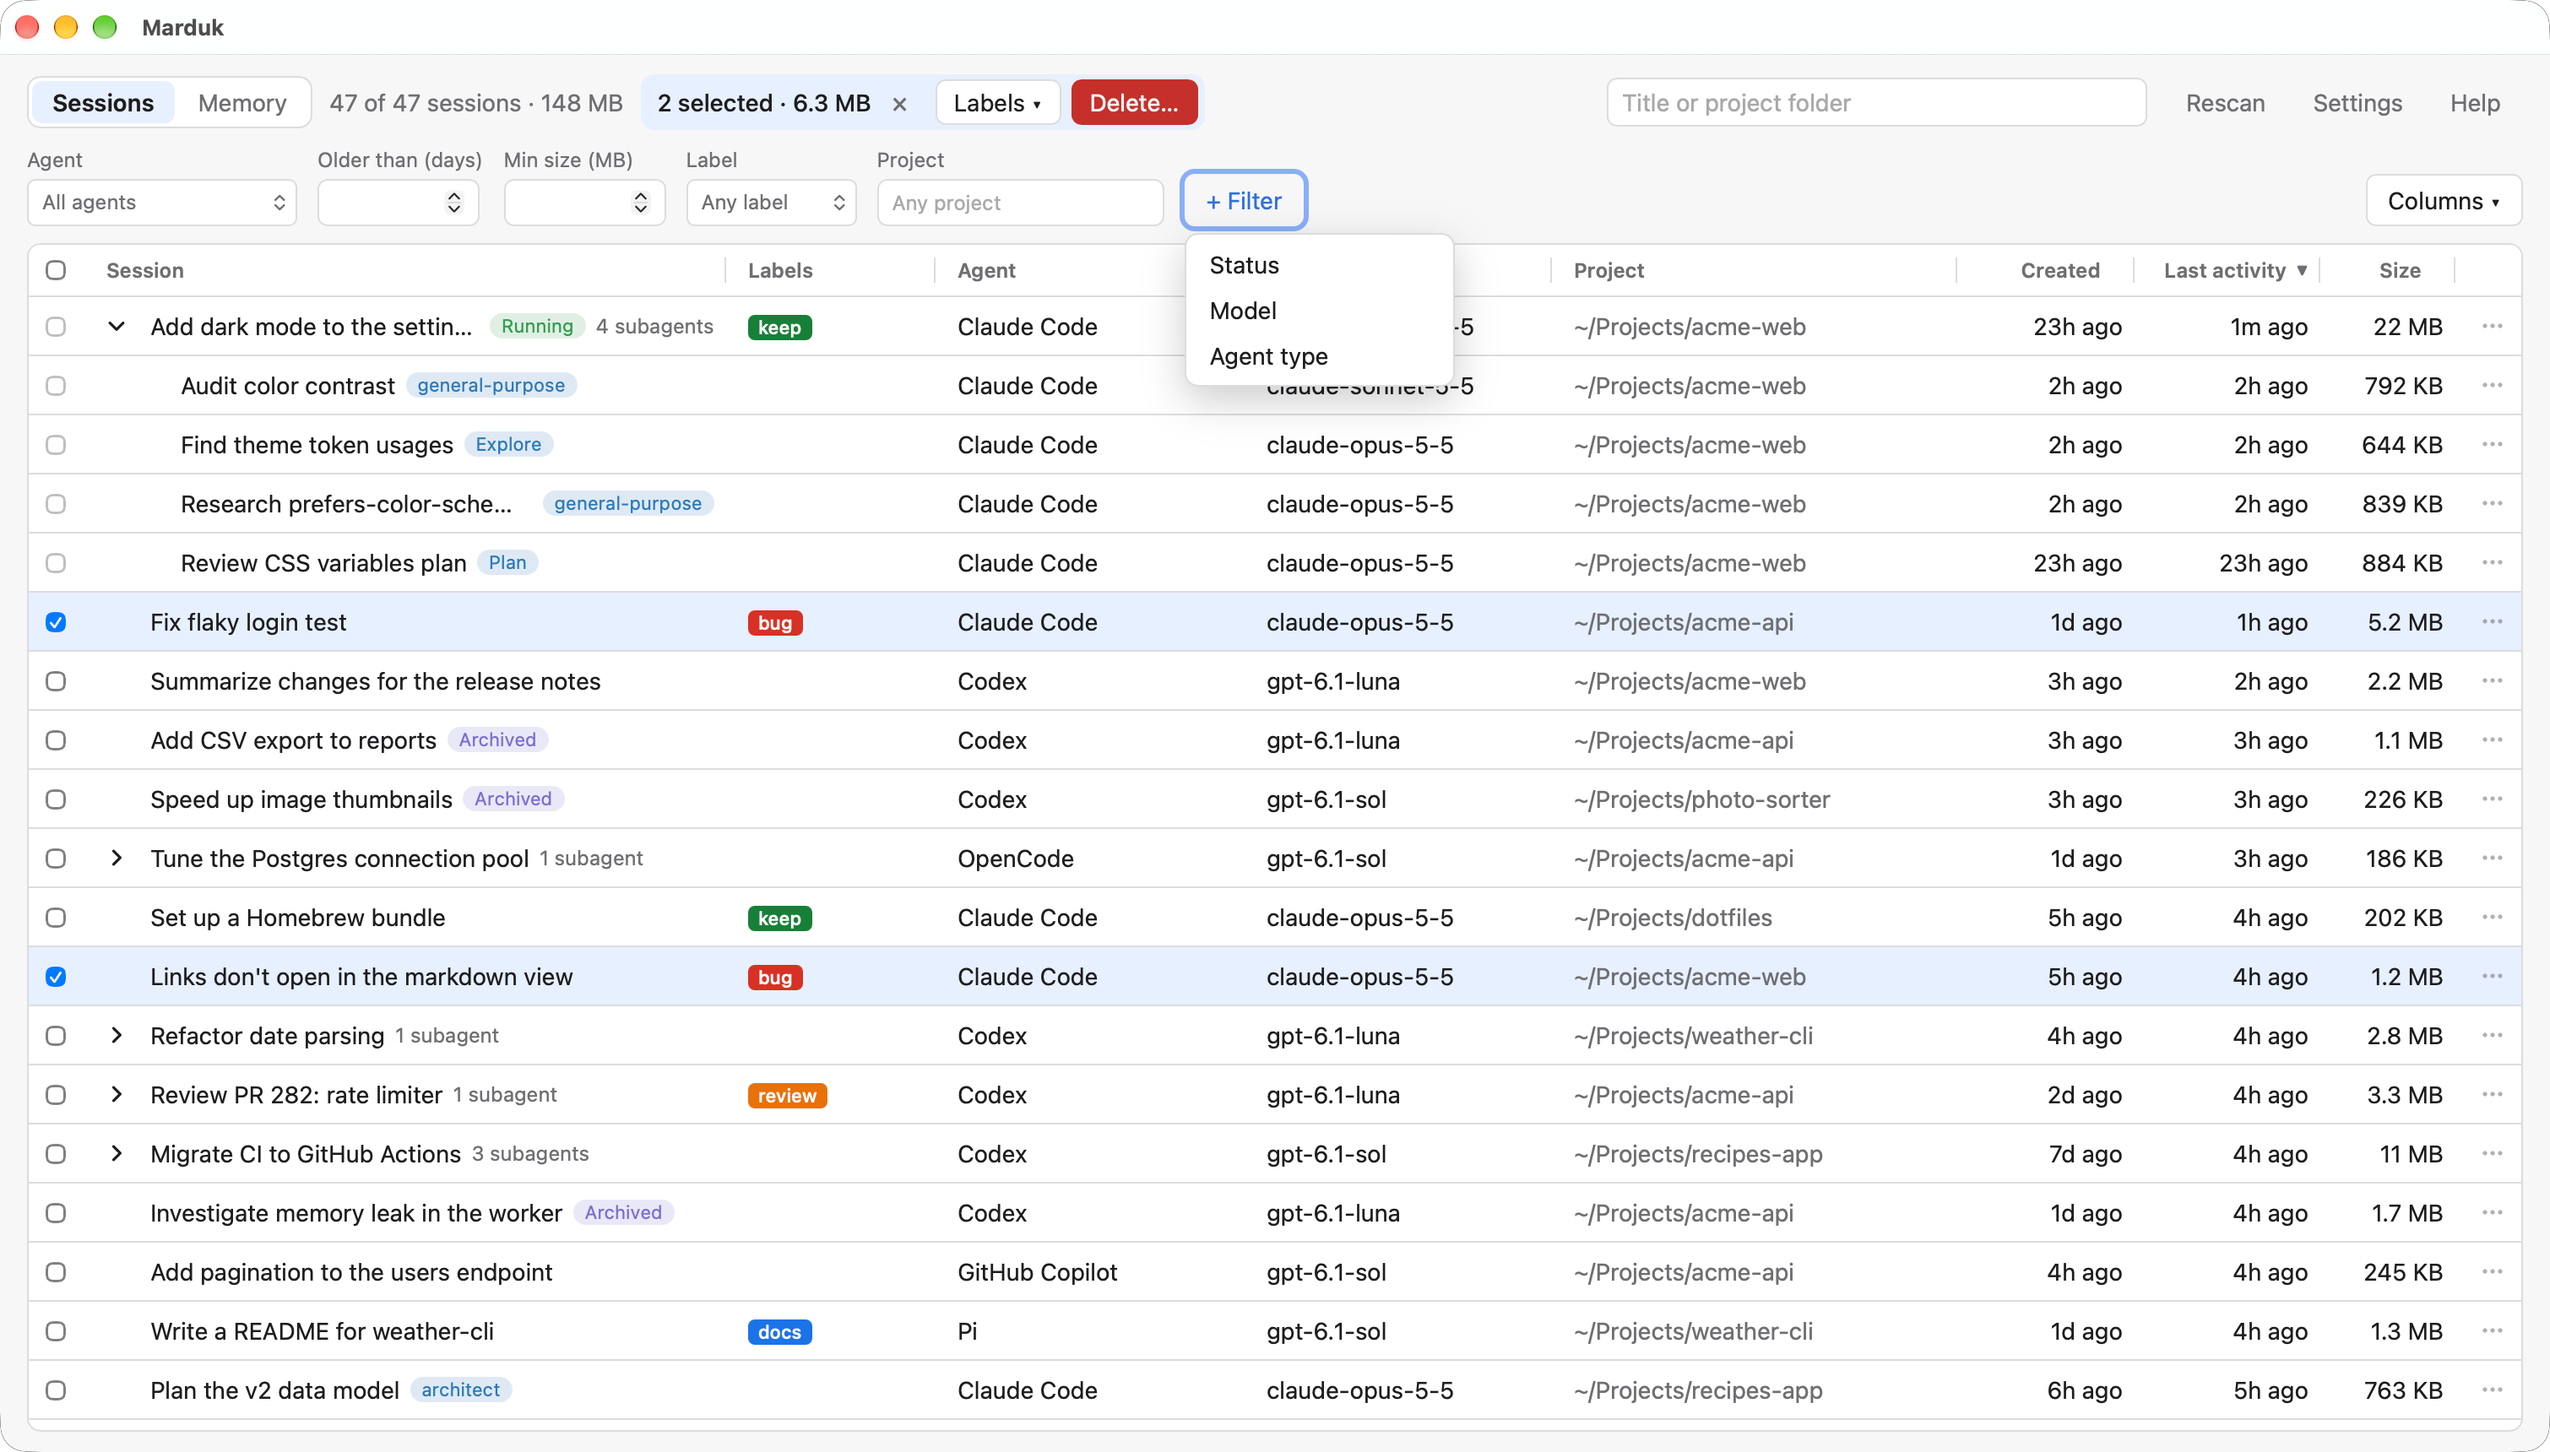
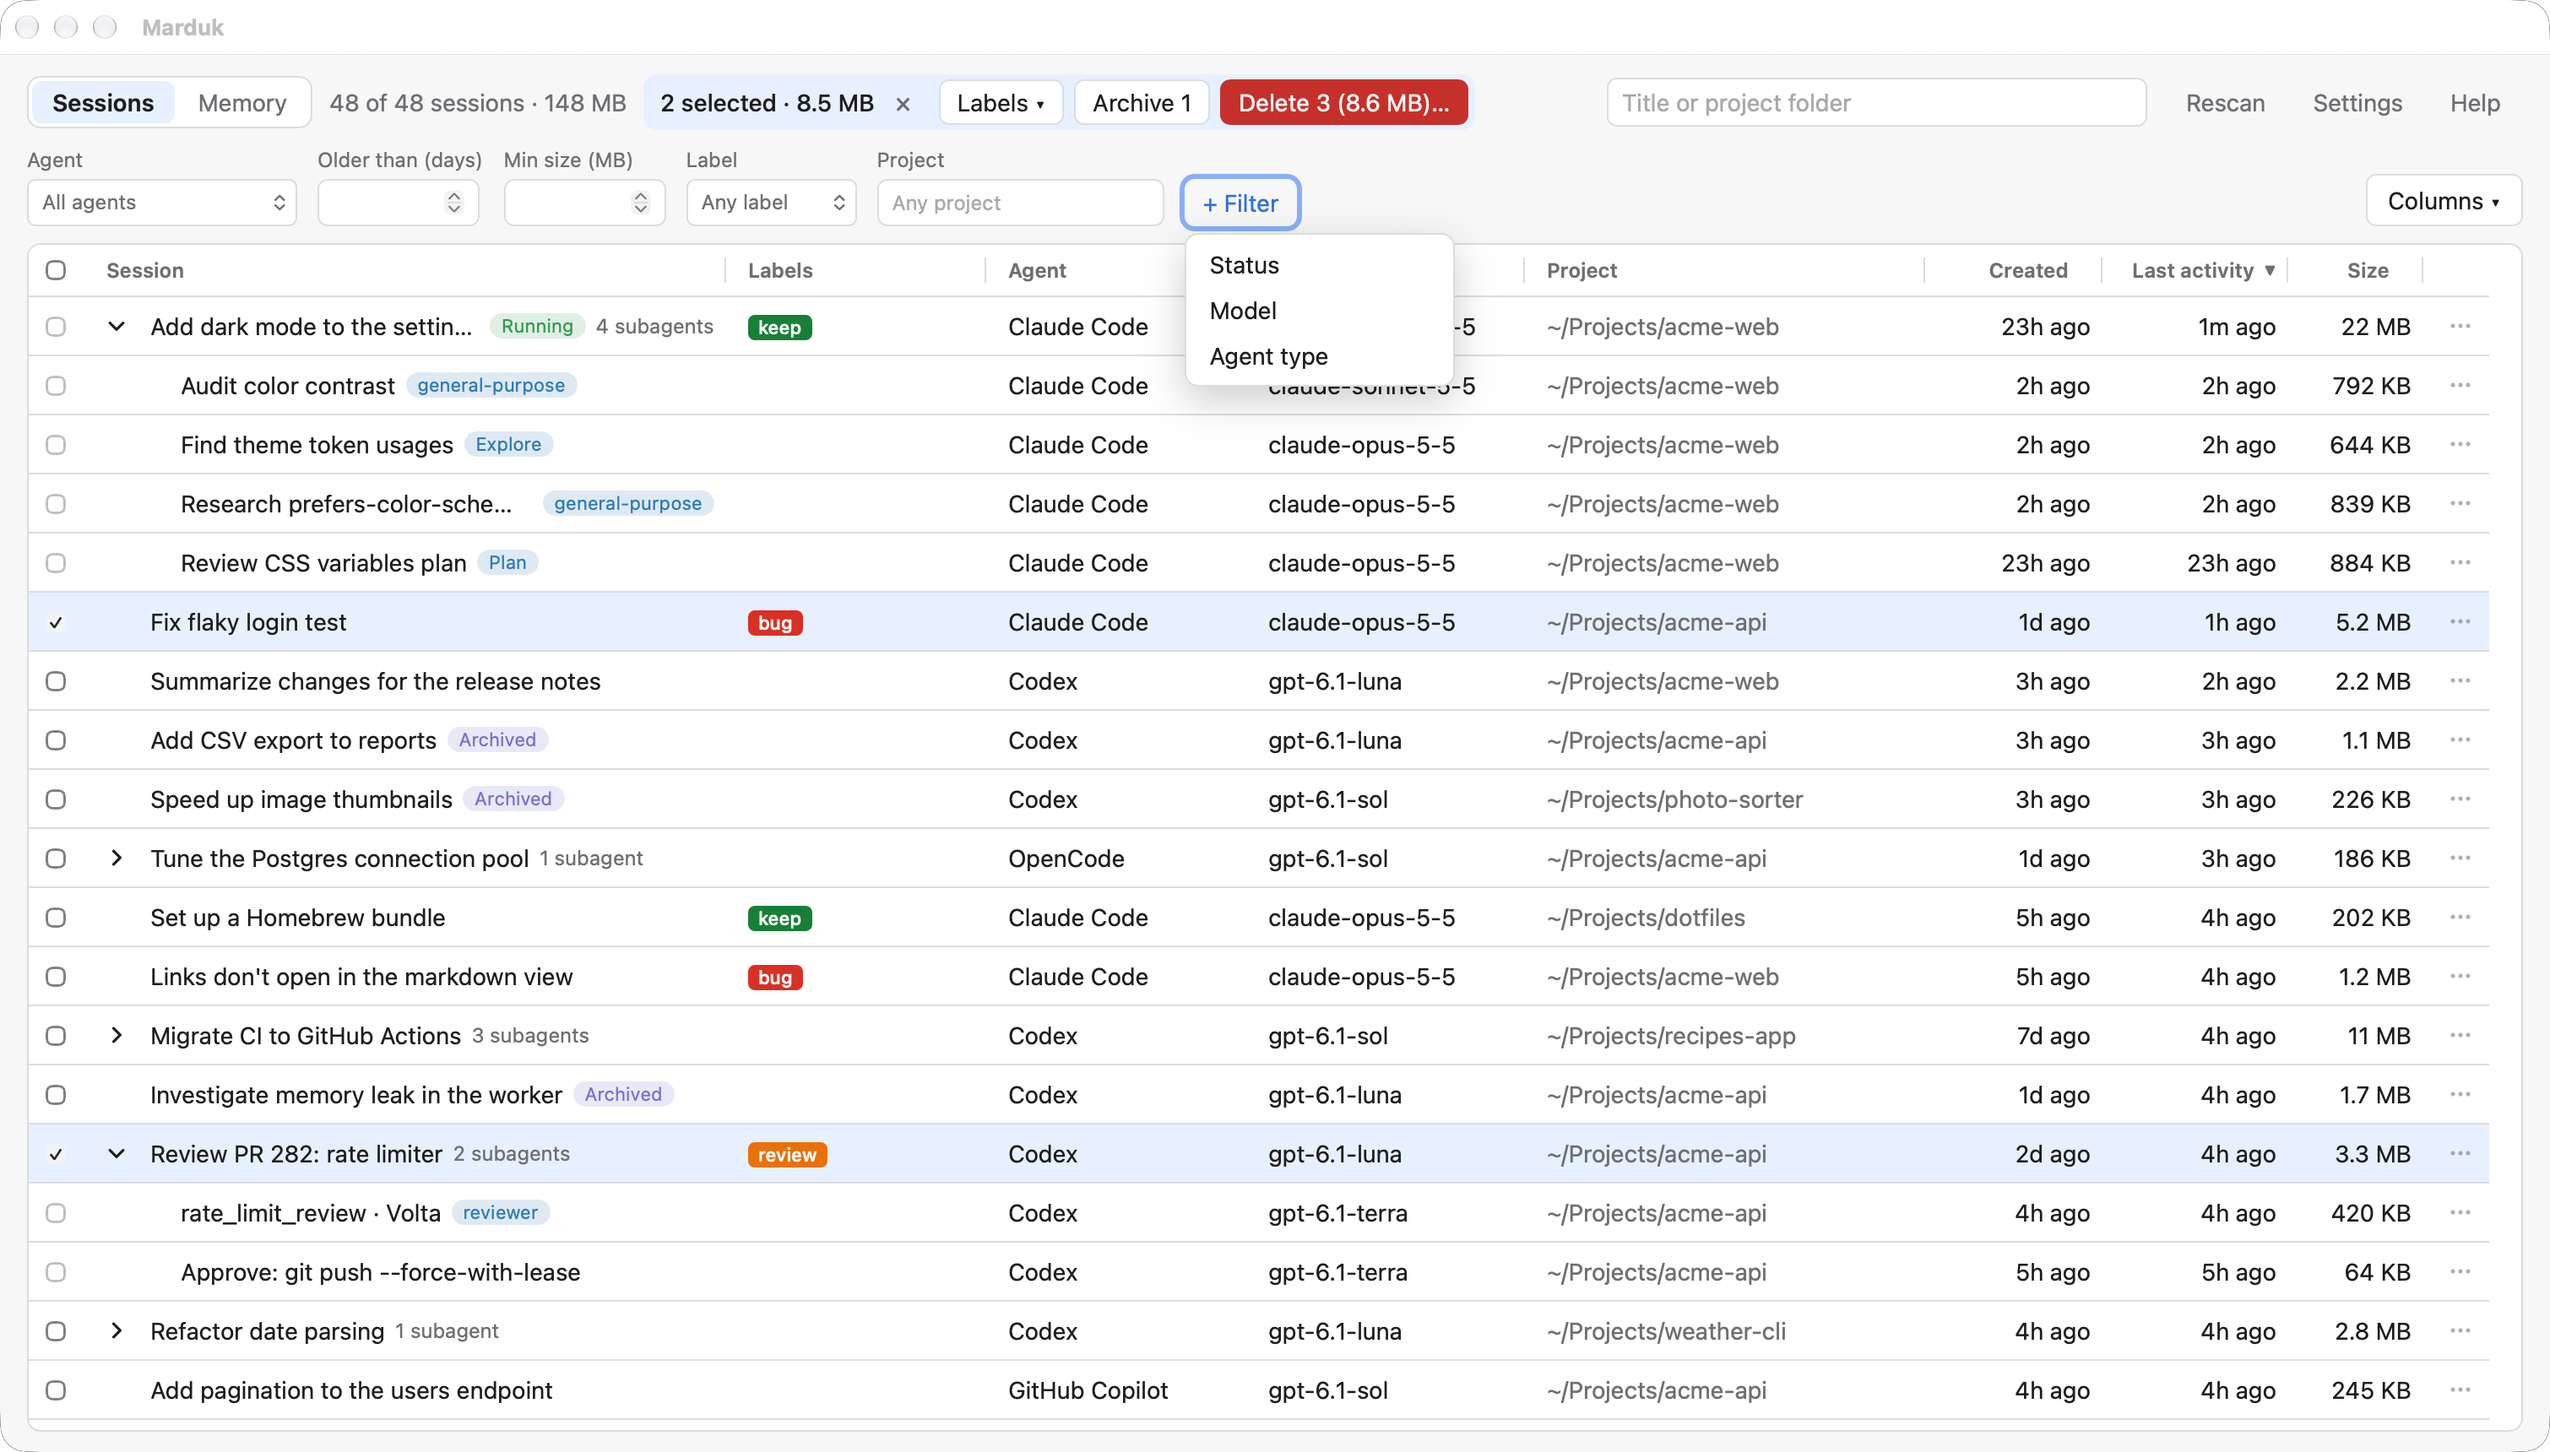
docs: demo a Codex Guardian review and retake the screenshot
The demo's Review PR 282 session gets a Guardian review, which codex
delete leaves behind, so the screenshot shows its delete counting it.

diff --git a/crates/marduk-core/src/demo.rs b/crates/marduk-core/src/demo.rs
@@ -217,6 +217,14 @@ struct CodexAgent {
     role: &'static str,
 }
 
+/// How a Codex subagent session was started: spawned by its parent, or a Guardian review of
+/// one of its parent's tool calls, which `codex delete` leaves behind.
+#[derive(Clone, Copy)]
+enum CodexOrigin<'a> {
+    Spawned(&'a CodexAgent),
+    Guardian,
+}
+
 struct Writer<'a> {
     home: &'a DemoHome,
     options: &'a DemoOptions,
@@ -358,6 +366,16 @@ impl Writer<'_> {
                     role: "reviewer",
                 },
             )],
+        )?;
+        self.codex_rollout(
+            review.child(
+                "Approve: git push --force-with-lease",
+                5 * HOUR,
+                5 * HOUR,
+                64 * KB,
+            ),
+            &uuid("Review PR 282: rate limiter/guardian"),
+            Some((&uuid(review.title), CodexOrigin::Guardian)),
         )?;
         let ci = spec(
             "Migrate CI to GitHub Actions",
@@ -507,11 +525,11 @@ impl Writer<'_> {
             &uuid("lint_fix"),
             Some((
                 &uuid("A session that was deleted"),
-                &CodexAgent {
+                CodexOrigin::Spawned(&CodexAgent {
                     task: "lint_fix",
                     nickname: "Curie",
                     role: "worker",
-                },
+                }),
             )),
         )?;
         self.codex(
@@ -755,7 +773,11 @@ impl Writer<'_> {
         self.codex_rollout(spec, &id, None)?;
         for (subagent, agent) in subagents {
             let child_id = uuid(&format!("{}/{}", spec.title, agent.task));
-            self.codex_rollout(*subagent, &child_id, Some((&id, agent)))?;
+            self.codex_rollout(
+                *subagent,
+                &child_id,
+                Some((&id, CodexOrigin::Spawned(agent))),
+            )?;
         }
         self.label(format!("codex:{id}"), &spec);
         Ok(())
@@ -765,7 +787,7 @@ impl Writer<'_> {
         &self,
         spec: Spec,
         id: &str,
-        spawned_by: Option<(&str, &CodexAgent)>,
+        spawned_by: Option<(&str, CodexOrigin)>,
     ) -> io::Result<()> {
         let (cwd, workspace_root) = if spec.chat {
             let chats = self.home.root.join("Documents").join("Codex");
@@ -782,7 +804,8 @@ impl Writer<'_> {
             (cwd.clone(), cwd)
         };
         let source = match spawned_by {
-            Some((parent, agent)) => json!({ "subagent": { "thread_spawn": {
+            Some((_, CodexOrigin::Guardian)) => json!({ "subagent": { "other": "guardian" } }),
+            Some((parent, CodexOrigin::Spawned(agent))) => json!({ "subagent": { "thread_spawn": {
                 "parent_thread_id": parent,
                 "depth": 1,
                 "agent_path": format!("/root/{}", agent.task),
@@ -793,15 +816,20 @@ impl Writer<'_> {
         };
         let item = |ago: u64, payload: Value| json!({ "timestamp": self.stamp(ago), "type": "response_item", "payload": payload });
         let event = |ago: u64, payload: Value| json!({ "timestamp": self.stamp(ago), "type": "event_msg", "payload": payload });
+        let mut meta = json!({
+            "id": id,
+            "timestamp": self.stamp(spec.created),
+            "cwd": cwd,
+            "runtime_workspace_roots": [workspace_root],
+            "originator": "codex_cli_rs",
+            "source": source,
+        });
+        if let Some((parent, CodexOrigin::Guardian)) = spawned_by {
+            meta["parent_thread_id"] = json!(parent);
+            meta["thread_source"] = json!("guardian_review");
+        }
         let records = [
-            json!({ "timestamp": self.stamp(spec.created), "type": "session_meta", "payload": {
-                "id": id,
-                "timestamp": self.stamp(spec.created),
-                "cwd": cwd,
-                "runtime_workspace_roots": [workspace_root],
-                "originator": "codex_cli_rs",
-                "source": source,
-            }}),
+            json!({ "timestamp": self.stamp(spec.created), "type": "session_meta", "payload": meta }),
             item(
                 spec.created,
                 json!({ "type": "message", "role": "user", "content": [{ "type": "input_text", "text": spec.title }] }),
@@ -1653,6 +1681,14 @@ mod tests {
                 .iter()
                 .any(|session| session.agent == "opencode" && session.parent_id.is_some())
         );
+        let guardian = sessions
+            .iter()
+            .find(|session| {
+                session.title.as_deref() == Some("Approve: git push --force-with-lease")
+            })
+            .expect("a Codex Guardian review");
+        assert!(!guardian.deleted_with_parent);
+        assert!(ids.contains(guardian.parent_id.as_deref().unwrap()));
         let chats: Vec<_> = sessions
             .iter()
             .filter(|session| session.projectless)

diff --git a/docs/demo.md b/docs/demo.md
@@ -16,7 +16,7 @@ Each run rewrites the demo home, so ages are relative to now: one Claude Code se
 The sessions come from `crates/marduk-core/src/demo.rs`, which writes each agent's files the way that agent does:
 
 - **Claude Code:** JSONL transcripts in `.claude/projects/<folder>/`, one of them running with four subagents in `<id>/subagents/`.
-- **Codex:** rollouts in `.codex/sessions/YYYY/MM/DD/` and `.codex/archived_sessions/`, with spawned subagents and one subagent whose parent is gone (shown with _Parent deleted_).
+- **Codex:** rollouts in `.codex/sessions/YYYY/MM/DD/` and `.codex/archived_sessions/`, with spawned subagents, a Guardian review that `codex delete` would leave behind (under _Review PR 282_), and one subagent whose parent is gone (shown with _Parent deleted_).
 - **GitHub Copilot:** `events.jsonl` and `workspace.yaml` folders in `.copilot/session-state/`.
 - **OpenCode:** a SQLite database with the current `session_v2` tables, including a child session and an archived one.
 - **Kilo:** a SQLite database with OpenCode's older `session`/`message`/`part` tables.
@@ -71,7 +71,7 @@ By default, transcripts are padded to the sizes listed in `demo.rs`, so the Size
 1. Run `pnpm demo`.
 2. Resize the window to about 1510 × 860 points.
 3. In **Columns ▾**, turn on **Model**. Narrow **Labels** to just fit _keep_ and _research_, and widen **Project** and **Model** until the table fills the window with no path or model name cut off.
-4. Expand _Add dark mode to the settings page_ to show its subagents, and select _Fix flaky login test_ and _Links don't open in the markdown view_ so the selection actions show.
+4. Working from the bottom up, so rows don't move under the pointer: expand _Review PR 282: rate limiter_ and select it, select _Fix flaky login test_, then expand _Add dark mode to the settings page_. The toolbar then shows the selection actions, with **Delete 3** because the Guardian review goes with its parent, and the expanded subagents show they can't be selected on their own.
 5. Click **+ Filter** to open its menu. That also makes sure no column edge is highlighted and the window has focus.
 6. On macOS, capture the window with `screencapture -o -l <window id> docs/screenshot.png` (Screen Recording permission is required), or press ⇧⌘4, then Space, then ⌥-click the window to leave out the shadow.
 

diff --git a/README.md b/README.md
@@ -8,7 +8,7 @@ Your coding agents are less monstrous than Tiamat, but left alone they make thei
 
 It reads the transcripts that coding agents keep on disk. You can filter by agent, age, size or project, then delete the sessions you don't need, or archive them when the agent supports archiving.
 
-![Marduk listing Claude Code, Codex, OpenCode, GitHub Copilot and Pi sessions, with labels, models, a running session, expanded subagents, two selected sessions and the + Filter menu open](docs/screenshot.png)
+![Marduk listing Claude Code, Codex, OpenCode, GitHub Copilot and Pi sessions, with labels, models, a running session, expanded subagents, two selected sessions whose delete includes a Guardian review, and the + Filter menu open](docs/screenshot.png)
 
 ## Supported agents
 
